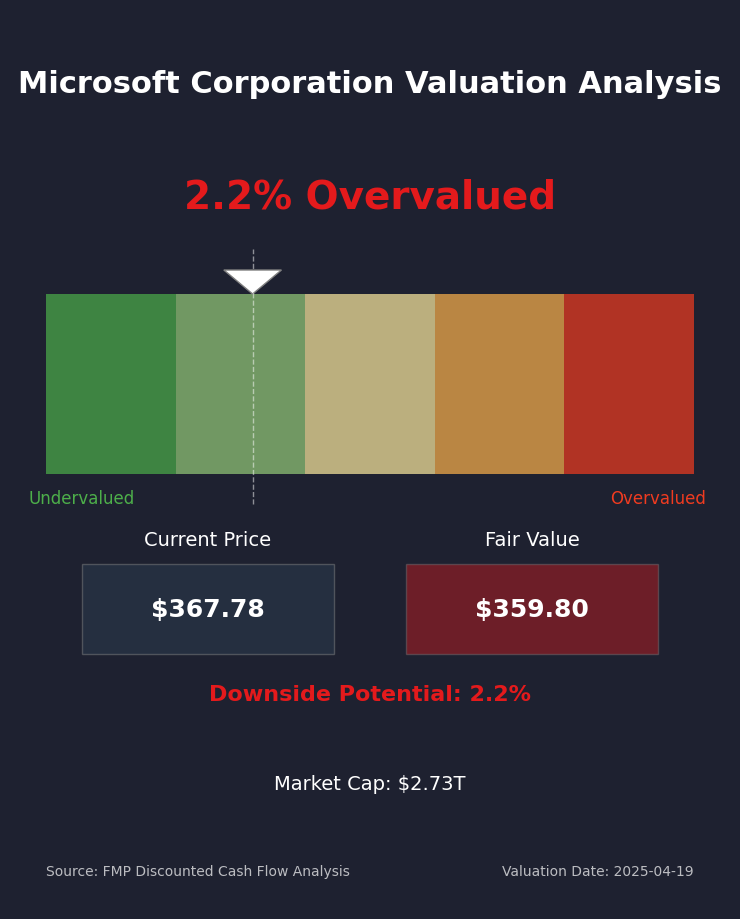
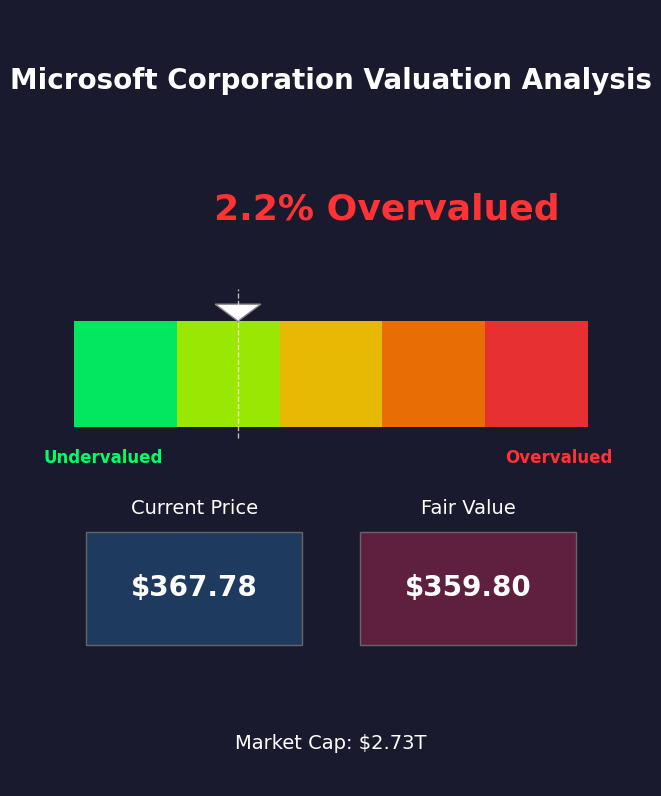
dcf calculation from fmp was waaay off trying to manually calculate myself to see if I can do it better

diff --git a/src/dcf_valuation.py b/src/dcf_valuation.py
@@ -1,0 +1,339 @@
+import requests
+import pandas as pd
+import numpy as np
+import json
+import os
+from datetime import datetime
+
+# Base URLs for API calls
+BASE_URL = "https://financialmodelingprep.com/api/v3/"
+BASE_URL_V4 = "https://financialmodelingprep.com/api/v4/"
+
+
+from config import FMP_API_KEY
+
+
+def get_company_data(ticker):
+    """Get company profile data"""
+
+    url = f"{BASE_URL}profile/{ticker}?apikey={FMP_API_KEY}"
+    try:
+        response = requests.get(url, timeout=10)
+        data = response.json()
+        
+        if not data or len(data) == 0:
+            print(f"No company data found for {ticker}")
+            return None
+            
+        return data[0]
+    except Exception as e:
+        print(f"Error fetching company data: {e}")
+        return None
+
+def get_cash_flow_statements(ticker, period="annual", limit=10):
+    """Get cash flow statement data"""
+    
+    url = f"{BASE_URL}cash-flow-statement/{ticker}?period={period}&limit={limit}&apikey={FMP_API_KEY}"
+    try:
+        response = requests.get(url, timeout=15)
+        data = response.json()
+        
+        if not data or len(data) == 0:
+            print(f"No cash flow data found for {ticker}")
+            return None
+            
+        return data
+    except Exception as e:
+        print(f"Error fetching cash flow data: {e}")
+        return None
+
+def get_financial_growth(ticker, period="annual"):
+    """Get financial growth rates"""
+    
+    url = f"{BASE_URL}financial-growth/{ticker}?period={period}&apikey={FMP_API_KEY}"
+    try:
+        response = requests.get(url, timeout=10)
+        data = response.json()
+        
+        if not data or len(data) == 0:
+            print(f"No financial growth data found for {ticker}")
+            return None
+            
+        return data
+    except Exception as e:
+        print(f"Error fetching financial growth data: {e}")
+        return None
+
+def get_risk_free_rate():
+    """Get 10-year US Treasury Bond yield as risk-free rate"""
+    
+    url = f"{BASE_URL}economic/treasury?apikey={FMP_API_KEY}"
+    try:
+        response = requests.get(url, timeout=10)
+        data = response.json()
+        
+        # Find 10-year treasury yield
+        for treasury in data:
+            if treasury['maturity'] == '10 Years':
+                return treasury['rate'] / 100  # Convert percentage to decimal
+        
+        return 0.0387  # Default if not found
+    except Exception as e:
+        print(f"Error fetching treasury data: {e}")
+        return 0.0387  # Default value
+
+def calculate_wacc(ticker):
+    """Calculate Weighted Average Cost of Capital (WACC)"""
+    
+    # Get company profile data
+    company_data = get_company_data(ticker)
+    if not company_data:
+        return 0.09
+    
+    # Get key metrics
+    url = f"{BASE_URL}key-metrics/{ticker}?limit=1&apikey={FMP_API_KEY}"
+    try:
+        response = requests.get(url, timeout=10)
+        metrics_data = response.json()
+        
+        if not metrics_data or len(metrics_data) == 0:
+            return 0.09
+            
+        metrics = metrics_data[0]
+        
+        # Get financial ratios
+        ratios_url = f"{BASE_URL}ratios/{ticker}?limit=1&apikey={FMP_API_KEY}"
+        ratios_response = requests.get(ratios_url, timeout=10)
+        ratios_data = ratios_response.json()
+        
+        if not ratios_data or len(ratios_data) == 0:
+            return 0.09
+            
+        ratios = ratios_data[0]
+        
+        # Get balance sheet
+        balance_url = f"{BASE_URL}balance-sheet-statement/{ticker}?limit=1&apikey={FMP_API_KEY}"
+        balance_response = requests.get(balance_url, timeout=10)
+        balance_data = balance_response.json()
+        
+        if not balance_data or len(balance_data) == 0:
+            return 0.09
+            
+        balance = balance_data[0]
+        
+        # Calculate WACC components
+        
+        # 1. Cost of Equity (using CAPM)
+        risk_free_rate = get_risk_free_rate()
+        beta = company_data.get('beta', 1.0)
+        market_risk_premium = 0.05  # Assumed market risk premium of 5%
+        
+        cost_of_equity = risk_free_rate + beta * market_risk_premium
+        
+        # 2. Cost of Debt
+        interest_expense = abs(metrics.get('interestExpense', 0))
+        total_debt = balance.get('totalDebt', 0)
+        
+        if total_debt > 0 and interest_expense > 0:
+            cost_of_debt = interest_expense / total_debt
+        else:
+            cost_of_debt = risk_free_rate + 0.02  # Default: risk-free rate + 2%
+        
+        # Apply tax shield to cost of debt
+        effective_tax_rate = ratios.get('effectiveTaxRate', 0.25)
+        after_tax_cost_of_debt = cost_of_debt * (1 - effective_tax_rate)
+        
+        # 3. Capital structure weights
+        market_cap = company_data.get('mktCap', 0)
+        enterprise_value = market_cap + total_debt
+        
+        if enterprise_value > 0:
+            equity_weight = market_cap / enterprise_value
+            debt_weight = total_debt / enterprise_value
+        else:
+            equity_weight = 0.7  # Default: 70% equity
+            debt_weight = 0.3    # Default: 30% debt
+        
+        # Calculate WACC
+        wacc = (equity_weight * cost_of_equity) + (debt_weight * after_tax_cost_of_debt)
+        
+        # Ensure reasonable bounds
+        wacc = max(0.05, min(wacc, 0.15))
+        
+        return wacc
+        
+    except Exception as e:
+        print(f"Error calculating WACC: {e}")
+        return 0.09  # Default to 9%
+
+def project_fcf(ticker, years=10):
+    """Project Free Cash Flow for DCF calculation"""
+    # Get historical cash flow data
+    cash_flow_statements = get_cash_flow_statements(ticker, limit=5)
+    if not cash_flow_statements:
+        return None
+    
+    # Get growth rates
+    growth_data = get_financial_growth(ticker)
+    
+    # Extract free cash flow values
+    historical_fcf = []
+    
+    for statement in cash_flow_statements:
+        fcf = statement.get('freeCashFlow', 0)
+        if fcf != 0:
+            historical_fcf.append(fcf)
+    
+    if len(historical_fcf) == 0:
+        print(f"No historical FCF data available for {ticker}")
+        return None
+    
+    # Calculate historical FCF growth rate
+    fcf_growth_rates = []
+    for i in range(1, len(historical_fcf)):
+        growth_rate = (historical_fcf[i-1] / historical_fcf[i]) - 1
+        fcf_growth_rates.append(growth_rate)
+    
+    # Use median of historical growth rates to avoid outliers
+    if len(fcf_growth_rates) > 0:
+        historical_growth_rate = np.median(fcf_growth_rates)
+    else:
+        # If no historical growth data, use recent FCF growth from API or default
+        if growth_data and len(growth_data) > 0:
+            historical_growth_rate = growth_data[0].get('freeCashFlowGrowth', 0.05)
+        else:
+            historical_growth_rate = 0.05
+    
+    # Ensure growth rate is within reasonable bounds
+    historical_growth_rate = max(-0.20, min(historical_growth_rate, 0.25))
+    
+    # Get latest FCF as starting point
+    latest_fcf = historical_fcf[0]
+    
+    # Project FCF for future years - two-stage model
+    projected_fcf = []
+    
+    # First 5 years: Higher growth phase
+    growth_rate = historical_growth_rate
+    for i in range(1, 6):
+        fcf = latest_fcf * (1 + growth_rate) ** i
+        projected_fcf.append(fcf)
+    
+    # Next 5 years: Transition to terminal growth
+    terminal_growth_rate = 0.025  # Long-term growth assumption (2.5%)
+    for i in range(6, years + 1):
+        # Linear decline in growth rate
+        stage = i - 5
+        transition_weight = stage / 5
+        current_growth = growth_rate * (1 - transition_weight) + terminal_growth_rate * transition_weight
+        fcf = latest_fcf * (1 + current_growth) ** i
+        projected_fcf.append(fcf)
+    
+    return {
+        'latest_fcf': latest_fcf,
+        'historical_growth_rate': historical_growth_rate,
+        'terminal_growth_rate': terminal_growth_rate,
+        'projected_fcf': projected_fcf
+    }
+
+def calculate_dcf_valuation(ticker):
+    """Calculate DCF valuation for a stock"""
+    print(f"Calculating DCF valuation for {ticker}...")
+    
+    # Get company data
+    company_data = get_company_data(ticker)
+    if not company_data:
+        return None
+    
+    # Get projected FCF
+    fcf_projections = project_fcf(ticker)
+    if not fcf_projections:
+        return None
+    
+    # Get discount rate (WACC)
+    discount_rate = calculate_wacc(ticker)
+    
+    # Calculate present value of projected cash flows
+    projected_fcf = fcf_projections['projected_fcf']
+    terminal_growth_rate = fcf_projections['terminal_growth_rate']
+    
+    pv_fcf = []
+    for i, fcf in enumerate(projected_fcf):
+        year = i + 1
+        pv = fcf / ((1 + discount_rate) ** year)
+        pv_fcf.append(pv)
+    
+    # Calculate terminal value using Gordon Growth Model
+    terminal_fcf = projected_fcf[-1] * (1 + terminal_growth_rate)
+    terminal_value = terminal_fcf / (discount_rate - terminal_growth_rate)
+    
+    # Discount terminal value
+    pv_terminal_value = terminal_value / ((1 + discount_rate) ** len(projected_fcf))
+    
+    # Sum present values for enterprise value
+    enterprise_value = sum(pv_fcf) + pv_terminal_value
+    
+    # Get current net debt
+    net_debt = 0
+    try:
+        balance_sheet_url = f"{BASE_URL}balance-sheet-statement/{ticker}?limit=1&apikey={FMP_API_KEY}"
+        balance_response = requests.get(balance_sheet_url, timeout=10)
+        balance_data = balance_response.json()
+        
+        if balance_data and len(balance_data) > 0:
+            total_debt = balance_data[0].get('totalDebt', 0)
+            cash_and_equivalents = balance_data[0].get('cashAndCashEquivalents', 0)
+            short_term_investments = balance_data[0].get('shortTermInvestments', 0)
+            
+            net_debt = total_debt - (cash_and_equivalents + short_term_investments)
+    except Exception as e:
+        print(f"Error fetching balance sheet: {e}")
+    
+    # Calculate equity value
+    equity_value = enterprise_value - net_debt
+    
+    # Calculate per-share value
+    shares_outstanding = company_data.get('sharesOutstanding', 0)
+    if shares_outstanding <= 0:
+        # Try to estimate from market cap
+        market_cap = company_data.get('mktCap', 0)
+        current_price = company_data.get('price', 0)
+        
+        if market_cap > 0 and current_price > 0:
+            shares_outstanding = market_cap / current_price
+        else:
+            print(f"Unable to determine shares outstanding for {ticker}")
+            return None
+    
+    fair_value_per_share = equity_value / shares_outstanding
+    current_price = company_data.get('price', 0)
+    
+    # Determine if undervalued/overvalued
+    if current_price > 0:
+        potential = ((fair_value_per_share / current_price) - 1) * 100
+        valuation_status = "Undervalued" if potential >= 0 else "Overvalued"
+    else:
+        potential = 0
+        valuation_status = "Unknown"
+    
+    # Format results
+    result = {
+        'ticker': ticker,
+        'company_name': company_data.get('companyName', ticker),
+        'current_price': current_price,
+        'fair_value': fair_value_per_share,
+        'potential': potential,
+        'valuation_status': valuation_status,
+        'market_cap': company_data.get('mktCap', 0),
+        'shares_outstanding': shares_outstanding,
+        'wacc': discount_rate,
+        'historical_growth_rate': fcf_projections['historical_growth_rate'],
+        'terminal_growth_rate': terminal_growth_rate,
+        'enterprise_value': enterprise_value,
+        'equity_value': equity_value,
+        'calculation_date': datetime.now().strftime('%Y-%m-%d')
+    }
+    
+    return results
+
+
